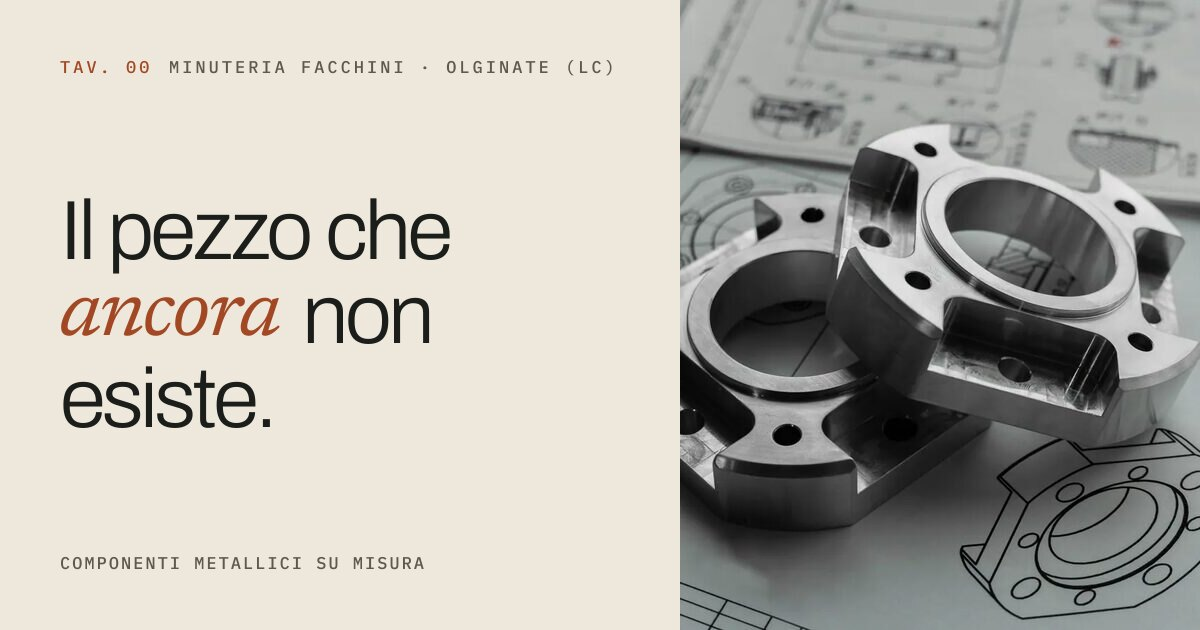
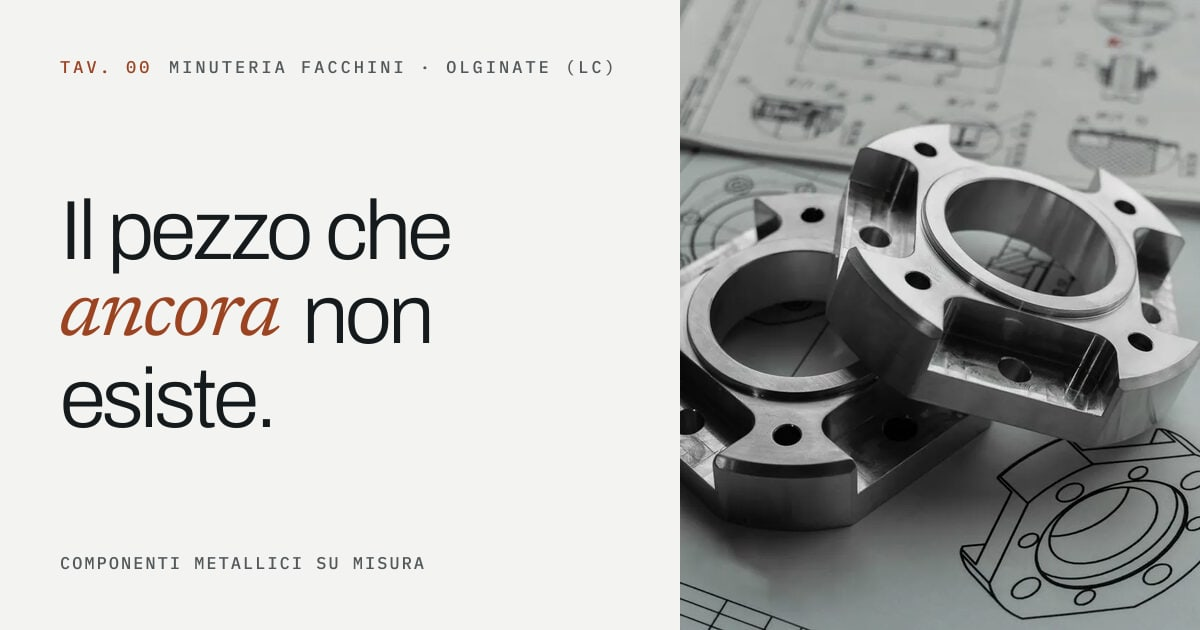
Palette: petrolio al posto del verde ossido, fondo bianco grigio al posto della carta avorio

diff --git a/src/og-assets/OgImage.tsx b/src/og-assets/OgImage.tsx
@@ -1,6 +1,6 @@
-// Sorgente di public/og.png. Per rigenerarla: copiare questo file in
+// Sorgente di public/og.jpg. Per rigenerarla: copiare questo file in
 // src/app/opengraph-image.tsx, avviare npm run dev, salvare
-// http://localhost:3000/opengraph-image come public/og.png e rimuovere la copia.
+// http://localhost:3000/opengraph-image/, convertirla in public/og.jpg e rimuovere la copia.
 import { readFile } from "node:fs/promises";
 import path from "node:path";
 import { ImageResponse } from "next/og";
@@ -23,20 +23,20 @@ export default async function OgImage() {
 
   return new ImageResponse(
     (
-      <div style={{ display: "flex", width: "100%", height: "100%", background: "#eee8dc", color: "#1b1e1b" }}>
+      <div style={{ display: "flex", width: "100%", height: "100%", background: "#f3f4f2", color: "#151a1c" }}>
         <div style={{ display: "flex", flexDirection: "column", justifyContent: "space-between", padding: "56px 60px", width: 680 }}>
-          <div style={{ display: "flex", fontFamily: "Plex", fontSize: 17, letterSpacing: 3, color: "#5e584d" }}>
-            <span style={{ color: "#a34825", marginRight: 16 }}>TAV. 00</span>MINUTERIA FACCHINI · OLGINATE (LC)
+          <div style={{ display: "flex", fontFamily: "Plex", fontSize: 17, letterSpacing: 3, color: "#53595b" }}>
+            <span style={{ color: "#9c4322", marginRight: 16 }}>TAV. 00</span>MINUTERIA FACCHINI · OLGINATE (LC)
           </div>
           <div style={{ display: "flex", flexDirection: "column", fontFamily: "Archivo", fontSize: 84, lineHeight: 1, letterSpacing: -3.5 }}>
             <span>Il pezzo che</span>
             <span style={{ display: "flex" }}>
-              <span style={{ fontFamily: "Newsreader", color: "#a34825", marginRight: 22, letterSpacing: -2 }}>ancora</span>
+              <span style={{ fontFamily: "Newsreader", color: "#9c4322", marginRight: 22, letterSpacing: -2 }}>ancora</span>
               non
             </span>
             <span>esiste.</span>
           </div>
-          <div style={{ display: "flex", fontFamily: "Plex", fontSize: 17, letterSpacing: 2, color: "#5e584d" }}>
+          <div style={{ display: "flex", fontFamily: "Plex", fontSize: 17, letterSpacing: 2, color: "#53595b" }}>
             COMPONENTI METALLICI SU MISURA
           </div>
         </div>

diff --git a/src/app/globals.css b/src/app/globals.css
@@ -1,26 +1,25 @@
 /* ==========================================================================
    Minuteria Facchini — sistema visivo
    Concept: "Tavola tecnica". Il sito è impaginato come un disegno tecnico:
-   carta avorio, inchiostro, quote, cartigli. Il rame e la sua patina verde
-   sono i due stati dello stesso metallo: materia e tempo.
+   carta bianca, inchiostro, quote, cartigli. Il petrolio è il colore
+   delle superfici scure, il rame quello degli accenti.
    ========================================================================== */
 
 :root {
   /* Colore */
-  --paper: #eee8dc;
-  --paper-deep: #e3dbcb;
-  --ink: #1b1e1b;
-  --ink-soft: #5e584d;
-  --oxide: #1e2d27;
-  --oxide-deep: #151f1b;
-  --copper: #9c4322; /* testo/link: 5.3:1 su carta, 4.7:1 su carta scura */
-  --copper-strong: #9c4322; /* fondo pulsanti con testo carta: 5.3:1 */
-  --copper-glow: #e08a62; /* accento su fondo ossido: 5.5:1 */
-  --patina: #93b5a2;
-  --sand: #c9bfa9;
-  --line: rgb(27 30 27 / 0.16);
-  --line-strong: rgb(27 30 27 / 0.42);
-  --line-on-dark: rgb(238 232 220 / 0.16);
+  --paper: #f3f4f2; /* bianco grigio neutro, niente toni caldi */
+  --paper-deep: #e4e7e5;
+  --ink: #151a1c;
+  --ink-soft: #53595b; /* 6.5:1 su carta, 5.7:1 su carta scura */
+  --oxide: #0f4b57; /* petrolio: carta 8.8:1 */
+  --oxide-deep: #0a353e;
+  --copper: #9c4322; /* testo/link: 5.9:1 su carta, 5.2:1 su carta scura */
+  --copper-strong: #9c4322; /* fondo pulsanti con testo carta: 5.9:1 */
+  --copper-glow: #f0a983; /* accento su fondo petrolio: 5:1 */
+  --sand: #b4c7ca; /* testo secondario su petrolio: 5.5:1 */
+  --line: rgb(21 26 28 / 0.15);
+  --line-strong: rgb(21 26 28 / 0.42);
+  --line-on-dark: rgb(243 244 242 / 0.18);
 
   /* Tipografia (variabili impostate da next/font nel layout) */
   --font-sans: var(--font-archivo), "Helvetica Neue", Arial, sans-serif;
@@ -332,7 +331,7 @@ p {
   bottom: 10px;
   z-index: 2;
   padding: 4px 8px 3px;
-  background: rgb(27 30 27 / 0.84);
+  background: rgb(21 26 28 / 0.84);
   color: var(--paper);
   font-family: var(--font-mono);
   font-size: 0.68rem;

diff --git a/src/components/SiteFooter.module.css b/src/components/SiteFooter.module.css
@@ -66,14 +66,14 @@
   display: grid;
   grid-template-columns: 2fr repeat(5, 1fr);
   margin: 0;
-  border: 1px solid rgb(238 232 220 / 0.28);
+  border: 1px solid rgb(243 244 242 / 0.28);
 }
 
 .cartiglio > div {
   display: grid;
   gap: 6px;
   padding: 14px 16px 16px;
-  border-right: 1px solid rgb(238 232 220 / 0.28);
+  border-right: 1px solid rgb(243 244 242 / 0.28);
 }
 
 .cartiglio > div:last-child {
@@ -127,7 +127,7 @@
   }
 
   .cartiglio > div {
-    border-bottom: 1px solid rgb(238 232 220 / 0.28);
+    border-bottom: 1px solid rgb(243 244 242 / 0.28);
   }
 
   .cellWide {
@@ -158,7 +158,7 @@
   }
 
   .cartiglio > div:nth-child(2n + 1):not(.cellWide) {
-    border-right: 1px solid rgb(238 232 220 / 0.28);
+    border-right: 1px solid rgb(243 244 242 / 0.28);
   }
 
   .bottom {

diff --git a/src/components/ui/Button.module.css b/src/components/ui/Button.module.css
@@ -62,7 +62,7 @@
 }
 
 .solid .arrow {
-  background: rgb(238 232 220 / 0.16);
+  background: rgb(243 244 242 / 0.16);
 }
 
 .ghost {
@@ -85,11 +85,11 @@
 }
 
 .ghost:hover .arrow {
-  border-color: rgb(238 232 220 / 0.3);
+  border-color: rgb(243 244 242 / 0.3);
 }
 
 :global(.on-dark) .ghost {
-  border-color: rgb(238 232 220 / 0.38);
+  border-color: rgb(243 244 242 / 0.38);
 }
 
 :global(.on-dark) .ghost::before {

diff --git a/src/components/SiteHeader.module.css b/src/components/SiteHeader.module.css
@@ -10,7 +10,7 @@
 }
 
 .header[data-scrolled] {
-  background: rgb(238 232 220 / 0.92);
+  background: rgb(243 244 242 / 0.92);
   -webkit-backdrop-filter: blur(14px) saturate(1.2);
   backdrop-filter: blur(14px) saturate(1.2);
   box-shadow: 0 1px 0 var(--line);

diff --git a/src/components/contact/ContactForm.module.css b/src/components/contact/ContactForm.module.css
@@ -281,7 +281,7 @@
   width: 40px;
   height: 40px;
   border-radius: 50%;
-  background: rgb(238 232 220 / 0.16);
+  background: rgb(243 244 242 / 0.16);
   transition: transform 400ms var(--ease-out);
 }
 

diff --git a/src/components/ui/CtaBand.module.css b/src/components/ui/CtaBand.module.css
@@ -21,7 +21,7 @@
   width: min(54vw, 720px);
   height: auto;
   transform: translateY(-50%);
-  color: rgb(238 232 220 / 0.09);
+  color: rgb(243 244 242 / 0.09);
   pointer-events: none;
 }
 

diff --git a/src/app/layout.tsx b/src/app/layout.tsx
@@ -60,7 +60,7 @@ export const metadata: Metadata = {
 };
 
 export const viewport: Viewport = {
-  themeColor: "#eee8dc",
+  themeColor: "#f3f4f2",
   colorScheme: "light",
 };
 

diff --git a/docs/02-direzione-artistica.md b/docs/02-direzione-artistica.md
@@ -4,7 +4,7 @@
 
 Ogni componente di Minuteria Facchini nasce su un foglio: un'esigenza del
 cliente che diventa disegno, poi pezzo. Il sito è impaginato come una tavola
-di disegno tecnico: carta avorio, inchiostro, linee di quota, il cartiglio
+di disegno tecnico: carta bianca, inchiostro, linee di quota, il cartiglio
 nell'angolo. Sopra questo foglio appoggiamo la materia — fotografie grandi,
 dettagli di metallo — e la voce delle persone che lo lavorano.
 
@@ -22,35 +22,36 @@ componente. Il sito non mostra un catalogo, mostra un modo di lavorare.
 
 ## Posizionamento visivo
 
-- **Non** il sito industriale blu-grigio-bianco, **non** il template AI con
+- **Non** il sito industriale con il blu aziendale di serie, **non** il template AI con
   gradienti e card tutte uguali.
 - Solidità da grande gruppo (impaginazione ampia, titoli grandi, ritmo
   lento, fotografia protagonista) con la sensibilità di uno studio di design
   (spazi generosi, tipografia curata, dettagli grafici ispirati al disegno
   tecnico).
-- Calore di un'azienda di famiglia: carta al posto del bianco ottico,
-  corsivo per la voce umana, immagini d'archivio presentate con didascalia.
+- Calore di un'azienda di famiglia affidato al corsivo per la voce umana e
+  alle immagini d'archivio presentate con didascalia, non al colore del fondo.
 
-## Palette — "materia e tempo"
+## Palette — "petrolio e rame"
 
-Il rame e la sua patina verde sono due stati dello stesso metallo: il colore
-del metallo appena lavorato e quello che acquista con gli anni. La palette
-racconta la stessa cosa dell'azienda: lavorazione e storia.
+Fondo bianco grigio neutro, senza toni caldi: la prima versione su carta
+avorio risultava troppo «da template» (revisione del 28/11/2026). Le superfici
+scure sono color petrolio; il rame resta l'accento.
 
 | Token | Hex | Uso | Contrasto |
 | --- | --- | --- | --- |
-| `--paper` Carta | `#EEE8DC` | fondo principale (carta da disegno) | — |
-| `--paper-deep` Carta scura | `#E3DBCB` | superfici secondarie, campi | — |
-| `--ink` Inchiostro | `#1B1E1B` | testo, linee | 13,8:1 su carta |
-| `--ink-soft` Grafite | `#5E584D` | testo secondario | 5,8:1 su carta |
-| `--oxide` Verde ossido | `#1E2D27` | sezioni scure (storia, CTA finale) | carta su ossido 11,8:1 |
-| `--copper` Rame | `#A34825` | link e accenti su carta | 4,9:1 su carta |
-| `--copper-strong` Rame pieno | `#9C4322` | fondo pulsanti principali | carta su rame 5,3:1 |
-| `--copper-glow` Rame chiaro | `#E08A62` | accenti su fondo ossido | 5,5:1 su ossido |
-| `--patina` Patina | `#93B5A2` | dettagli minimi su fondo scuro | 6,4:1 su ossido |
+| `--paper` Carta | `#F3F4F2` | fondo principale | — |
+| `--paper-deep` Carta scura | `#E4E7E5` | superfici secondarie, campi | — |
+| `--ink` Inchiostro | `#151A1C` | testo, linee | 15,9:1 su carta |
+| `--ink-soft` Grafite | `#53595B` | testo secondario | 6,5:1 su carta, 5,7:1 su carta scura |
+| `--oxide` Petrolio | `#0F4B57` | sezioni scure (storia, CTA finale, piè di pagina) | carta su petrolio 8,8:1 |
+| `--oxide-deep` Petrolio scuro | `#0A353E` | riservato a fondi più scuri | — |
+| `--copper` Rame | `#9C4322` | link e accenti su carta | 5,9:1 su carta |
+| `--copper-strong` Rame pieno | `#9C4322` | fondo pulsanti principali | carta su rame 5,9:1 |
+| `--copper-glow` Rame chiaro | `#F0A983` | accenti su fondo petrolio | 5,0:1 su petrolio |
+| `--sand` Grigio azzurro | `#B4C7CA` | testo secondario su petrolio | 5,5:1 su petrolio |
 
-Regola d'uso: carta e inchiostro occupano quasi tutta la superficie; il verde
-ossido scandisce i capitoli; il rame è un accento (CTA, quote, parole chiave)
+Regola d'uso: carta e inchiostro occupano quasi tutta la superficie; il
+petrolio scandisce i capitoli; il rame è un accento (CTA, quote, parole chiave)
 e non supera mai una piccola percentuale della pagina. Tutte le coppie usate
 per il testo superano WCAG AA.
 
